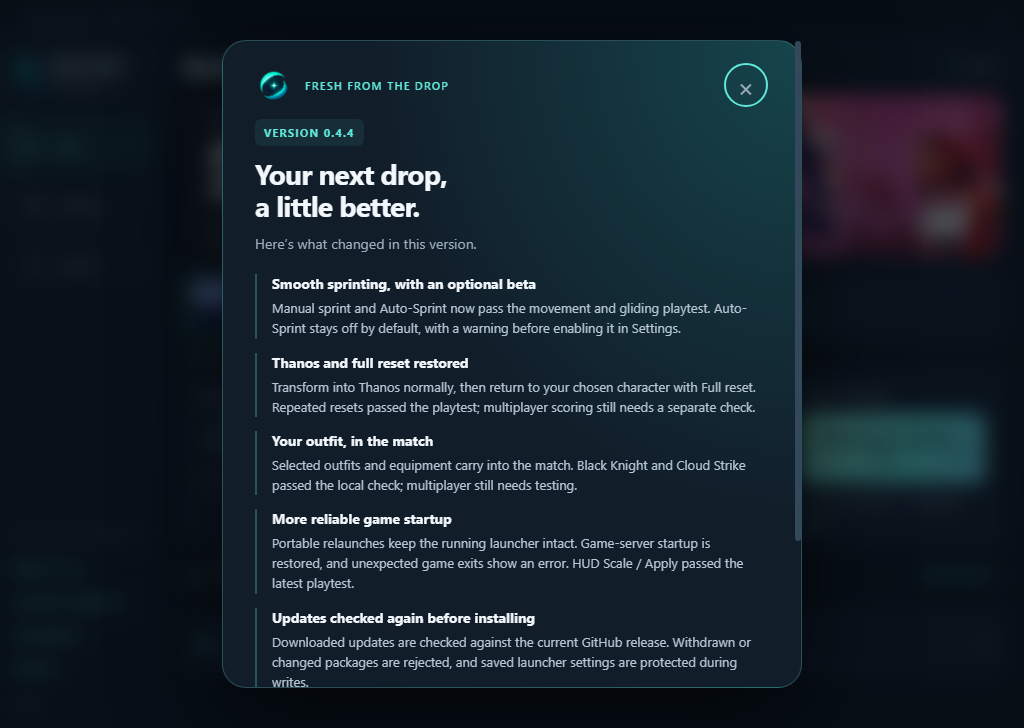
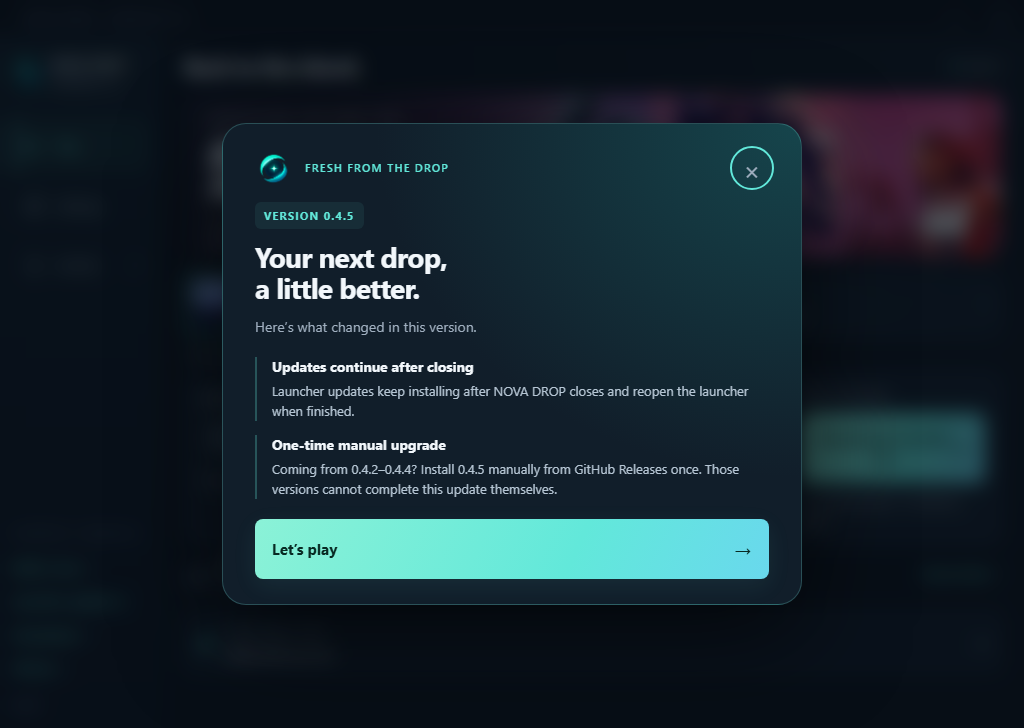
Record verified 0.4.5 handoff and manual-upgrade guidance

Changed region(s): [[0.2188, 0.0302, 0.7812, 0.967], [0.25, 0.0907, 0.4375, 0.3022]]

diff --git a/AUDIT_045.md b/AUDIT_045.md
@@ -2,7 +2,7 @@
 
 ## Status and scope
 
-November 4, 2026: the updater correction is implemented and its local checks pass. Final packaged IPC validation, CI, publication assets and checksum verification are still pending. Do not describe 0.4.5 as fully verified or published on the basis of this document.
[1 lines of base64/hex data omitted]
 
 Users running 0.4.2–0.4.4 need to install 0.4.5 manually once. Those versions run the defective handoff code before any downloaded replacement can start, so a corrected release alone cannot fix their existing in-app updater.
 
@@ -35,8 +35,15 @@ The launcher still waits for readiness, rechecks the helper's creation timestamp
 | Old failure reproduced | Initial attached-child regression failed in 6/6 runs; direct attached/detached matrix yielded no working alternative in 54 probes. |
 | Independent bootstrap lifetime | Isolated .NET-bootstrap probe survived exit of the actual Electron main process. |
 | Local automated suite | All 92 Node/helper checks passed, including actual spawning-parent exit; the old implementation fails the new comparison. |
-| Packaged in-app update | A replacement smoke test is being added to invoke the packaged launcher's actual update IPC and then let that launcher exit. Final result pending. |
-| Final Windows CI and artifacts | Pending. No 0.4.5 workflow, artifact digest or executable hash is asserted here. |
+| Local UI checks | All 19 tests passed, including the revised changelog and update controls. |
+| Packaged in-app update | Current 0.4.5 portable and NSIS packages passed their own check/download/install IPC, real initiating Electron exit, helper survival and automatic restart. A debugger supplies only a simulated older starting version and release feed; the packaged handoff is unchanged. Separate real 0.4.2 file-replacement compatibility tests also passed using the corrected helper. |
+| Final Windows CI | Source `3e25465bb51b7618ce9529363357d3a530c70493` passed desktop `41906951181` / job `126844054951` and standalone `41906951876` / job `126844056294`: 92 code checks, 19 UI tests, 860 payload files, packaged startup, repeated portable launches and all four update cases. |
 | Gameplay | Native baseline unchanged; no new Fortnite session was controlled for this updater task. Existing 0.4.4 owner evidence retains its original scope. |
 
-Release qualification still requires the packaged portable and installed update paths to complete after the real initiating launcher exits, with the expected target version/hash, retained settings and a functioning restarted runtime/worker. Final source, run IDs and verified asset hashes must be recorded after those checks pass. Old installed copies still require the manual first upgrade regardless of the new candidate's test results.
+Both formats completed after the real initiating launcher exited, with the expected target version/hash, retained settings and a functioning restarted runtime/worker. Old installed copies still require the manual first upgrade; a new package cannot fix the handoff already running inside the old launcher.
+
+## First CI attempt and path-length correction
+
+Initial source `fa5ccca` passed replacement and automatic restart, but its portable worker probe failed. The expanded test-case directory made extraction paths exceed the Windows portable extractor's limit. A local hidden portable control reproduced 17 missing files out of 860 with paths up to 264 characters and an `ENOENT` before workspace preparation. Shortening the case label while retaining the same Unicode, spaces, ampersand and apostrophe produced all 860 files and a successful worker check (maximum source path 235 characters). The unpacked-worker control also passed, isolating extraction as the issue.
+
+Commit `3e25465` changes only that test fixture's directory length and preserves detailed IPC/stdout/stderr/path diagnostics on failure. No product validation was removed and the updater implementation is unchanged. The final CI passed all four cases. Arbitrarily long Windows installation/TEMP paths are not claimed supported. Evidence remains under ignored `build/portable-path-evidence-31dXO4/`.

diff --git a/RELEASE_QA.md b/RELEASE_QA.md
@@ -1,12 +1,16 @@
 # Desktop release checks
 
-## NOVA DROP 0.4.5 — updater correction, verification in progress
+## NOVA DROP 0.4.5 — updater correction
 
 ### Current status — November 4, 2026
 
 **The in-app update path in 0.4.2–0.4.4 is broken. A one-time manual installation of 0.4.5 is required for those versions.** Three owner update attempts downloaded the verified 0.4.4 installer and reached the ready/apply handoff, but produced no result and left the installed launcher at 0.4.2. The old launcher terminates its updater when it closes; downloading a corrected package does not repair the running old launcher.
 
-The 0.4.5 candidate starts the updater through a separate hidden bootstrap and retains readiness, consent, checksum and process-identity guards. All **92 local Node/helper checks passed**, including the regression that lets the actual spawning parent exit; the old implementation fails that comparison. Independent isolated probes confirmed that the bootstrap survives exit of the actual Electron main process. Final packaged IPC coverage, CI, release packages and their checksums remain **pending**. These local results are not a completed 0.4.5 release qualification. Detailed evidence and remaining checks are in [AUDIT_045.md](AUDIT_045.md).
+Version 0.4.5 starts the updater through a separate hidden bootstrap and retains readiness, consent, checksum and process-identity guards. All **92 Node/helper checks and 19 UI tests passed locally and in CI**, including the regression that lets the actual spawning parent exit; the old implementation fails that comparison. Final source `3e25465bb51b7618ce9529363357d3a530c70493` passed [desktop workflow 41906951181](https://github.com/UniverseMan12/Nova_launcher_4.2/actions/runs/41906951181), job `126844054951`, and standalone `41906951876`, job `126844056294`.
+
+All four update scenarios passed. The current packaged launcher performs its own check/download/install IPC, exits, and restarts automatically in both portable and NSIS formats; only its reported starting version and release feed are simulated. Its actual updater/helper are unmodified. Separate old-file compatibility tests replace real 0.4.2 files using the corrected helper. Those tests do **not** claim that the faulty 0.4.2 updater works. Each scenario verifies the restarted runtime/worker, retained settings and unusual path characters. Staged-package startup, repeated portable launches and all 860 payload files also passed. Details are in [AUDIT_045.md](AUDIT_045.md).
+
[1 lines of base64/hex data omitted]
 
 **Correction to historical update claims below:** earlier automated update tests started the helper from a separate, long-running test Node process. They verified replacement, restart and retained settings, but did not exercise the old launcher's own handoff followed by its exit. Their passes therefore did not establish that in-app updates worked. The gameplay, native-build, package-integrity and other independently scoped results remain valid.
 

diff --git a/README.md b/README.md
@@ -6,7 +6,7 @@
 
 ![NOVA DROP with Classic, Thanos and Infinity Showdown](docs/launcher-preview.png)
 
-*NOVA DROP 0.4.4, with the shared Thanos selector, clearer settings and update changelog.*
+*NOVA DROP 0.4.5, with the shared Thanos selector, clearer settings and update changelog.*
 
 ## Controls and updates in 0.4.4
 
